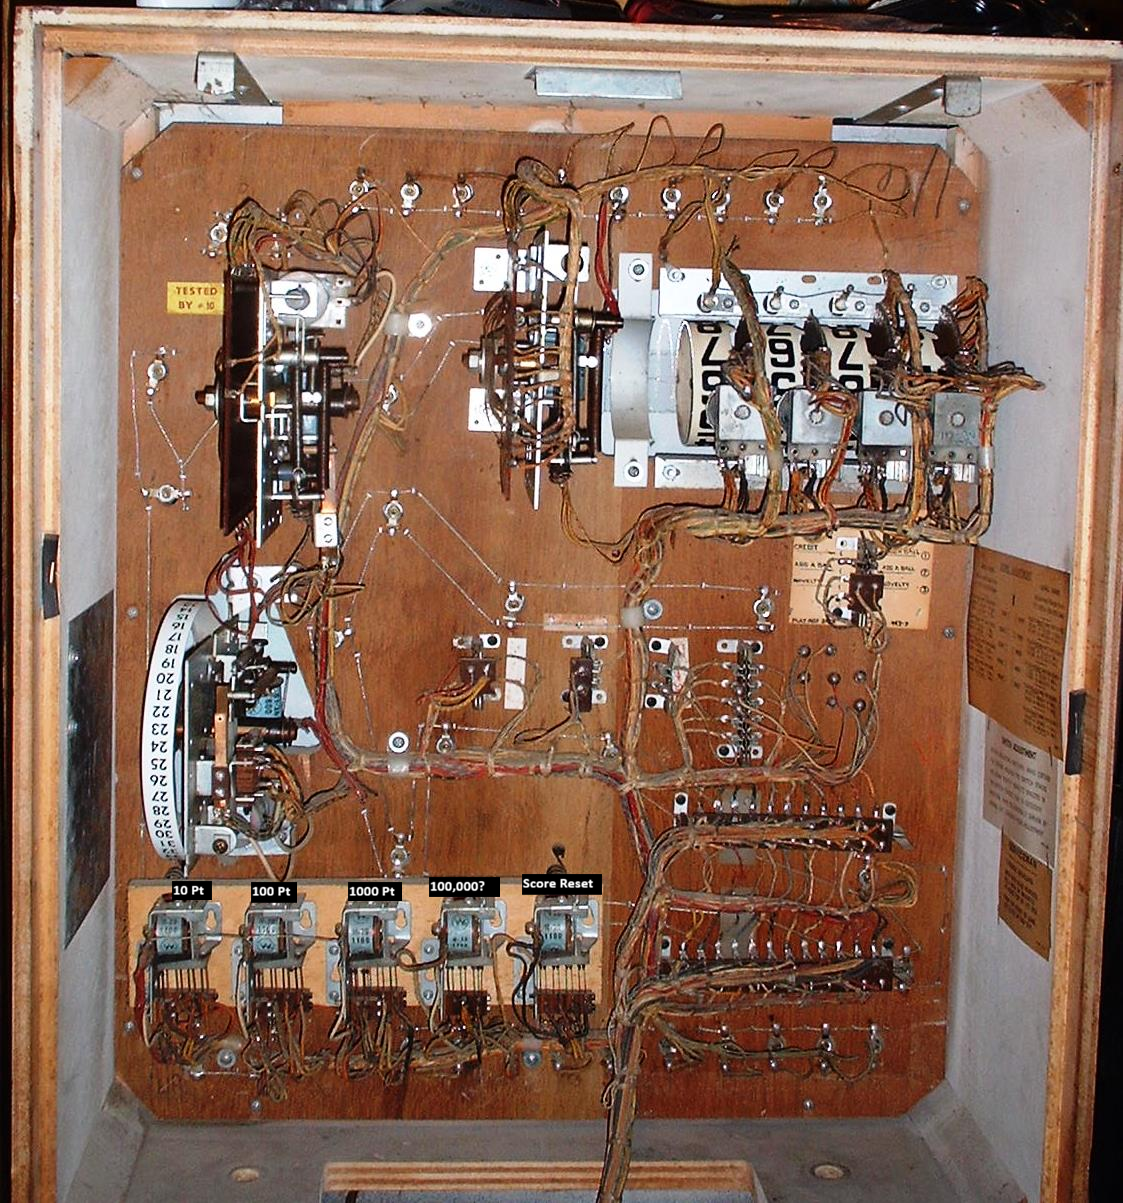
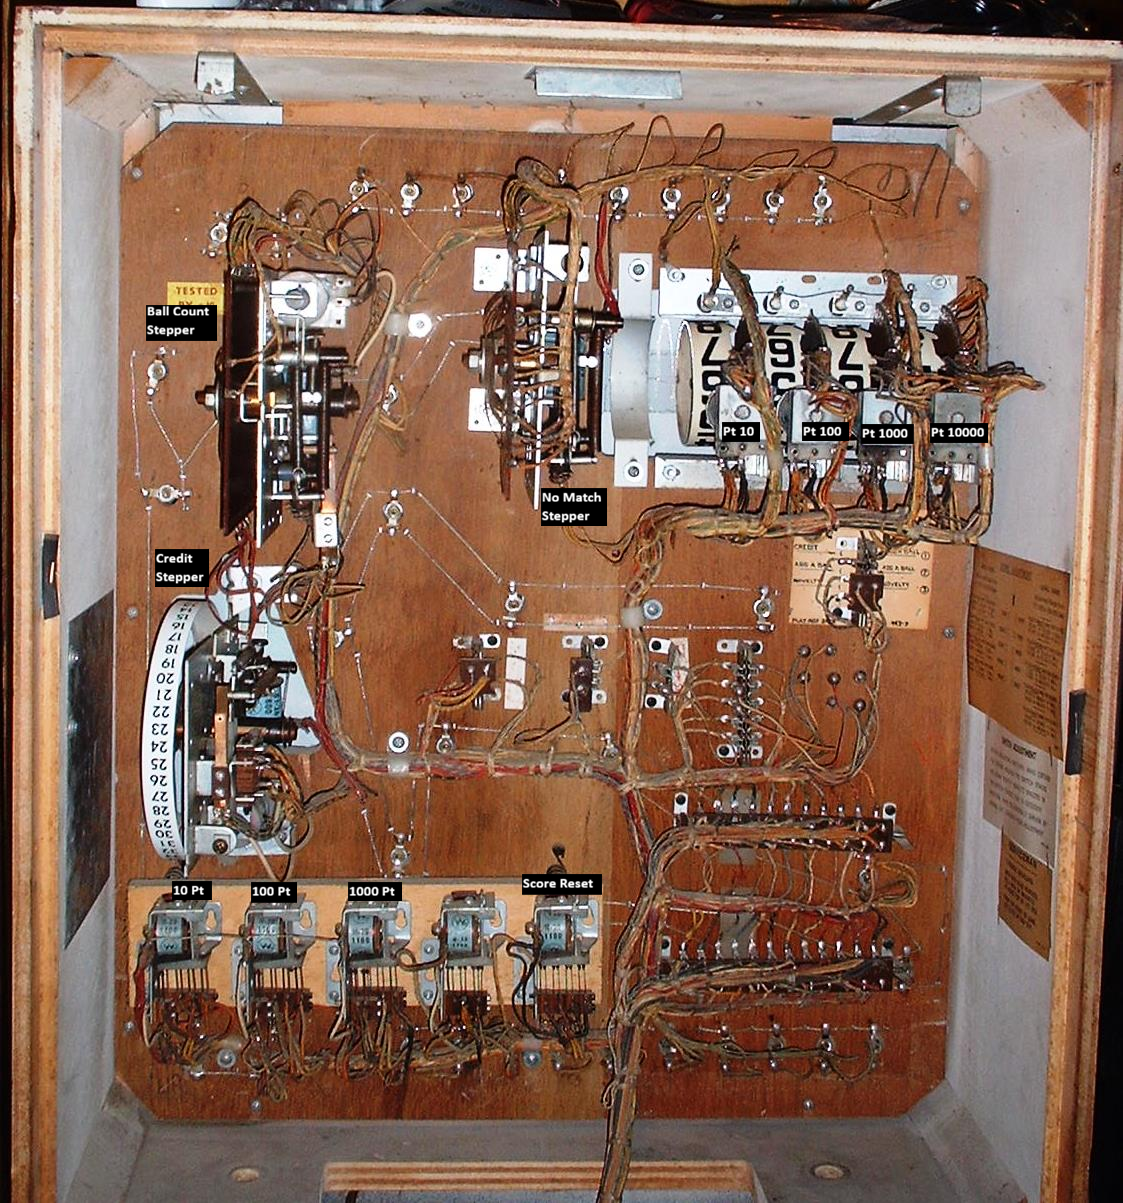
Update the Annotated pictures.

diff --git a/README.md b/README.md
@@ -14,6 +14,7 @@
 * [Schematic](Williams_1974_Skylab_Schematic_submitted_by_Steve_Corley_Annotated.pdf)
 * [Inside Cabinet](InsideCabinetAnnotated.png)
 * [Back Cabinet](BackCabinetAnnotated.png)
+* [Under Playfield](UnderPlayFieldAnnotated.png)
 
 ## Status:
 
